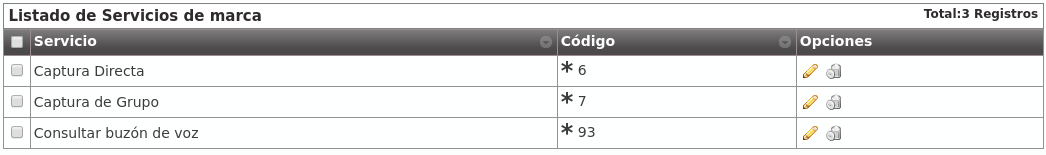
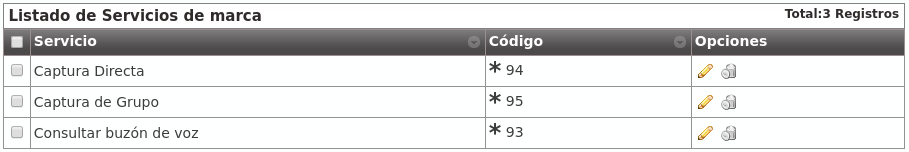
feature: Services redefined
- God Services have code now: will be used for new Brands.
    - No deletion is allowed

- Brand Services code is used for new Companies.
    - Deleting services avoids use for all companies of the brand.

- Companies Service have 'Brand Services' services by default.
    - Deleting services avoids use for the company.

- Companies can only use Services listed in "Company Services" with codes of this section
    - Inheritance is limited to company creation.

diff --git a/library/IvozProvider/Mapper/Sql/Raw/Services.php b/library/IvozProvider/Mapper/Sql/Raw/Services.php
@@ -54,6 +54,7 @@ class Services extends MapperAbstract
                 'name_es' => $model->getNameEs(),
                 'description_en' => $model->getDescriptionEn(),
                 'description_es' => $model->getDescriptionEs(),
+                'defaultCode' => $model->getDefaultCode(),
             );
         } else {
             $result = array();
@@ -578,14 +579,16 @@ class Services extends MapperAbstract
                   ->setNameEn($data['name_en'])
                   ->setNameEs($data['name_es'])
                   ->setDescriptionEn($data['description_en'])
-                  ->setDescriptionEs($data['description_es']);
+                  ->setDescriptionEs($data['description_es'])
+                  ->setDefaultCode($data['defaultCode']);
         } else if ($data instanceof \Zend_Db_Table_Row_Abstract || $data instanceof \stdClass) {
             $entry->setId($data->{'id'})
                   ->setIden($data->{'iden'})
                   ->setNameEn($data->{'name_en'})
                   ->setNameEs($data->{'name_es'})
                   ->setDescriptionEn($data->{'description_en'})
-                  ->setDescriptionEs($data->{'description_es'});
+                  ->setDescriptionEs($data->{'description_es'})
+                  ->setDefaultCode($data->{'defaultCode'});
 
         } else if ($data instanceof \IvozProvider\Model\Raw\Services) {
             $entry->setId($data->getId())
@@ -593,7 +596,8 @@ class Services extends MapperAbstract
                   ->setNameEn($data->getNameEn())
                   ->setNameEs($data->getNameEs())
                   ->setDescriptionEn($data->getDescriptionEn())
-                  ->setDescriptionEs($data->getDescriptionEs());
+                  ->setDescriptionEs($data->getDescriptionEs())
+                  ->setDefaultCode($data->getDefaultCode());
 
         }
 

diff --git a/library/IvozProvider/Model/Raw/Services.php b/library/IvozProvider/Model/Raw/Services.php
@@ -81,6 +81,13 @@ class Services extends ModelAbstract
      */
     protected $_descriptionEs;
 
+    /**
+     * Database var type varchar
+     *
+     * @var string
+     */
+    protected $_defaultCode;
+
 
 
     /**
@@ -108,6 +115,7 @@ class Services extends ModelAbstract
         'description'=>'description',
         'description_en'=>'descriptionEn',
         'description_es'=>'descriptionEs',
+        'defaultCode'=>'defaultCode',
     );
 
     /**
@@ -471,6 +479,43 @@ class Services extends ModelAbstract
     public function getDescriptionEs()
     {
         return $this->_descriptionEs;
+    }
+
+    /**
+     * Sets column Stored in ISO 8601 format.     *
+     * @param string $data
+     * @return \IvozProvider\Model\Raw\Services
+     */
+    public function setDefaultCode($data)
+    {
+
+        if (is_null($data)) {
+            throw new \InvalidArgumentException(_('Required values cannot be null'));
+        }
+        if ($this->_defaultCode != $data) {
+            $this->_logChange('defaultCode', $this->_defaultCode, $data);
+        }
+
+        if ($data instanceof \Zend_Db_Expr) {
+            $this->_defaultCode = $data;
+
+        } else if (!is_null($data)) {
+            $this->_defaultCode = (string) $data;
+
+        } else {
+            $this->_defaultCode = $data;
+        }
+        return $this;
+    }
+
+    /**
+     * Gets column defaultCode
+     *
+     * @return string
+     */
+    public function getDefaultCode()
+    {
+        return $this->_defaultCode;
     }
 
     /**

diff --git a/library/IvozProvider/Mapper/Sql/Companies.php b/library/IvozProvider/Mapper/Sql/Companies.php
@@ -28,6 +28,8 @@ class Companies extends Raw\Companies
             $recursive = false, $useTransaction = true, $transactionTag = null, $forceInsert = false
     )
     {
+        $isNew = !$model->getPrimaryKey();
+
         $this->_model = $model;
         $this->_recursive = $recursive;
         if (is_null($model->getPrimaryKey())) {
@@ -35,6 +37,10 @@ class Companies extends Raw\Companies
         }
 
         $pk = parent::_save($this->_model, $this->_recursive, $useTransaction, $transactionTag, $forceInsert);
+
+        if ($isNew) {
+            $this->_propagateServices($model);
+        }
 
         $this->_updateDomains($model);
 
@@ -128,6 +134,19 @@ class Companies extends Raw\Companies
         if (!empty($callACLPatterns)) {
             $this->_model->setCallACLPatterns($callACLPatterns);
             $this->_recursive = true;
+        }
+    }
+
+    protected function _propagateServices($model)
+    {
+        $servicesMapper = new \IvozProvider\Mapper\Sql\BrandServices();
+        $services = $servicesMapper->fetchList("brandId=" . $model->getBrandId());
+        foreach ($services as $service) {
+            $newService = new \IvozProvider\Model\CompanyServices();
+            $newService->setServiceId($service->getServiceId())
+                       ->setCode($service->getCode())
+                       ->setCompanyId($model->getPrimaryKey())
+                       ->save();
         }
     }
 

diff --git a/library/IvozProvider/Mapper/Sql/Brands.php b/library/IvozProvider/Mapper/Sql/Brands.php
@@ -35,6 +35,7 @@ class Brands extends Raw\Brands
 
         if ($isNew) {
             $this->_createDefaultRoutes($model);
+            $this->_createDefaultServices($model);
         }
 
         try {
@@ -77,6 +78,19 @@ class Brands extends Raw\Brands
                                                 ->setRoutingPatternGroupid($routingPatternGroup->getPrimaryKey())
                                                 ->save();
             }
+        }
+    }
+
+    protected function _createDefaultServices($model)
+    {
+        $servicesMapper = new \IvozProvider\Mapper\Sql\Services();
+        $services = $servicesMapper->fetchAll();
+        foreach ($services as $service) {
+            $newService = new \IvozProvider\Model\BrandServices();
+            $newService->setServiceId($service->getId())
+                       ->setCode($service->getDefaultCode())
+                       ->setBrandId($model->getPrimaryKey())
+                       ->save();
         }
     }
 

diff --git a/library/IvozProvider/Model/Companies.php b/library/IvozProvider/Model/Companies.php
@@ -54,13 +54,7 @@ class Companies extends Raw\Companies
     {
         $services = array();
 
-        // Add Brand Service Codes
-        $brandServices = $this->getBrand()->getBrandServices();
-        foreach ($brandServices as $brandService) {
-            $services[$brandService->getServiceId()] = $brandService;
-        }
-
-        // Override Brand services with company codes
+        // Get company services
         $companyServices = $this->getCompanyServices();
         foreach ($companyServices as $companyService) {
             $services[$companyService->getServiceId()] = $companyService;

diff --git a/library/IvozProvider/Mapper/Sql/DbTable/Services.php b/library/IvozProvider/Mapper/Sql/DbTable/Services.php
@@ -181,6 +181,23 @@ class Services extends TableAbstract
 	    'PRIMARY_POSITION' => NULL,
 	    'IDENTITY' => false,
 	  ),
+	  'defaultCode' => 
+	  array (
+	    'SCHEMA_NAME' => NULL,
+	    'TABLE_NAME' => 'Services',
+	    'COLUMN_NAME' => 'defaultCode',
+	    'COLUMN_POSITION' => 9,
+	    'DATA_TYPE' => 'varchar',
+	    'DEFAULT' => NULL,
+	    'NULLABLE' => false,
+	    'LENGTH' => '3',
+	    'SCALE' => NULL,
+	    'PRECISION' => NULL,
+	    'UNSIGNED' => NULL,
+	    'PRIMARY' => false,
+	    'PRIMARY_POSITION' => NULL,
+	    'IDENTITY' => false,
+	  ),
 	);
 
 

diff --git a/doc/sphinx/pbx_features/services.rst b/doc/sphinx/pbx_features/services.rst
@@ -29,7 +29,9 @@ En el momento de realizar esta documentación, existen los siguientes **servicio
 
 A medida que la solución vaya evolucionando y surjan servicios nuevos, aparecerán en este listado para que el operador global sepa de su existencia y lo comunique a sus operadores de marca.
 
-.. attention:: Este listado no especifica el código de acceso al servicio, serán los operadores de marca los que especifiquen el código de acceso por defecto a los servicios que quieran hacer disponibles.
+.. attention:: Este listado determina los servicios disponibles y los códigos por defecto de las **nuevas marcas**.
+
+.. hint:: Cambiar un código solo afecta a las marcas que se creen tras el cambio.
 
 **************************************************
 Definición de servicios y códigos a nivel de marca
@@ -37,39 +39,27 @@ Definición de servicios y códigos a nivel de marca
 
 La sección **Configuración de Marca ** > **Servicios** permite al operador de marca:
 
-- Dar de alta, de entre los servicios disponibles, los servicios que quiere hacer disponibles a sus empresas.
+- Redefinir el código de acceso por defecto a dichos servicios para las empresas que a su vez no lo redefinan.
 
-- Asignar el código de acceso por defecto a dichos servicios.
+- Borrar servicios que no quieran que puedan utilizar sus empresas.
 
-Por defecto este listado aparece vacío y se pueden añadir servicios tal que:
-
-.. image:: img/services_brand_add.png
-
-.. note:: Los caracteres permitidos son 0-9, \* y #, un máximo de 3.
-
-Imaginemos que añadimos los 3 disponibles:
+Por defecto este listado aparece con todas los servicios y los códigos configurados a nivel Global:
 
 .. image:: img/services_brand_list.png
 
-Desde ese momento, las empresas podrían acceder a dichos servicios sin más que marcar los códigos elegidos.
+.. attention:: Este listado determina los servicios disponibles y los códigos por defecto de las **nuevas empresas**.
 
-.. hint:: El operador de marca puede elegir no dar acceso a sus empresas al servicio *Buzón de voz*, por ejemplo. Bastaría con no asignarle código.
+.. hint:: Cambiar un código solo afecta a las empresas que se creen tras el cambio. Borrar un servicio hace que no esté disponible para ninguna empresa de la marca.
 
 ****************************************
 Definición de códigos a nivel de empresa
 ****************************************
 
-Puede darse el caso que una empresa concreta esté habituada a otros códigos o, simplemente, prefiera otros.
+Cada empresa puede *pisar* los valores por defecto asignados por su *operador de marca* accediendo a **Configuración de Empresa** > **Servicios** y cambiando el código asignado.
 
-Cada empresa puede *pisar* los valores por defecto asignados por su *operador de marca* accediendo a **Configuración de Empresa** > **Servicios**:
+.. rubric:: Empresa que quiere capturar con \*\* en lugar de con \*95:
 
-.. rubric:: Ejemplo: empresa que no quiere capturar con \*7 sino con \*95
+.. image:: img/services_company_edit.png
 
-.. image:: img/services_company_add.png
-
-Quedando la sección con:
-
-.. image:: img/services_company_list.png
-
-.. note:: Los servicios que el *administrador de empresa* no redefina utilizarán el código por defecto asignado por el *operador de marca*.
+.. hint:: Los servicios que el *administrador de empresa* borre no podrán ser utilizados por sus usuarios.
 
